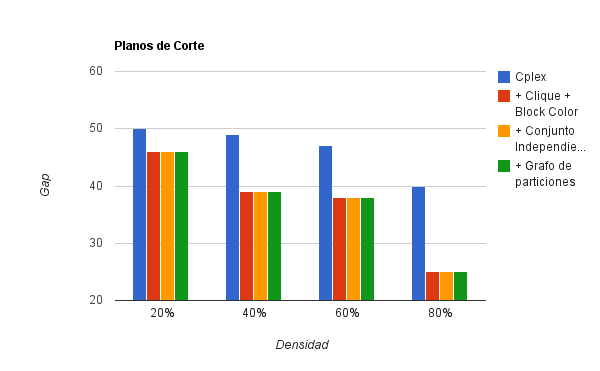
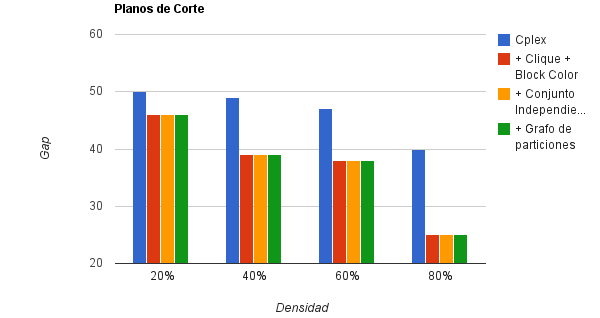
Defense

diff --git a/latex/defense/slides.tex b/latex/defense/slides.tex
@@ -25,7 +25,7 @@
 \newcommand{\lprestriction}[3]{#1 \[ #2 \qquad #3 \]}
 \newcommand{\lpineq}[2]{\[ #1 \qquad #2 \]}
 \newcommand{\xor}{\veebar}
-\newcommand{\includechart}[1]{\begin{figure}[h]\centering\includegraphics[scale=0.5]{#1}\end{figure}}
+\newcommand{\includechart}[1]{\begin{center}\includegraphics[scale=0.45]{#1}\end{center}}
 
 \newenvironment{centerblock}[1]{\begin{block}{#1}\center}{\end{block}}
 
@@ -34,7 +34,7 @@
 \input{graphs.tex}
 \input{titles.tex}
 
-%\includeonly{resultados}
+\includeonly{conclusiones}
 
 \begin{document}
 
